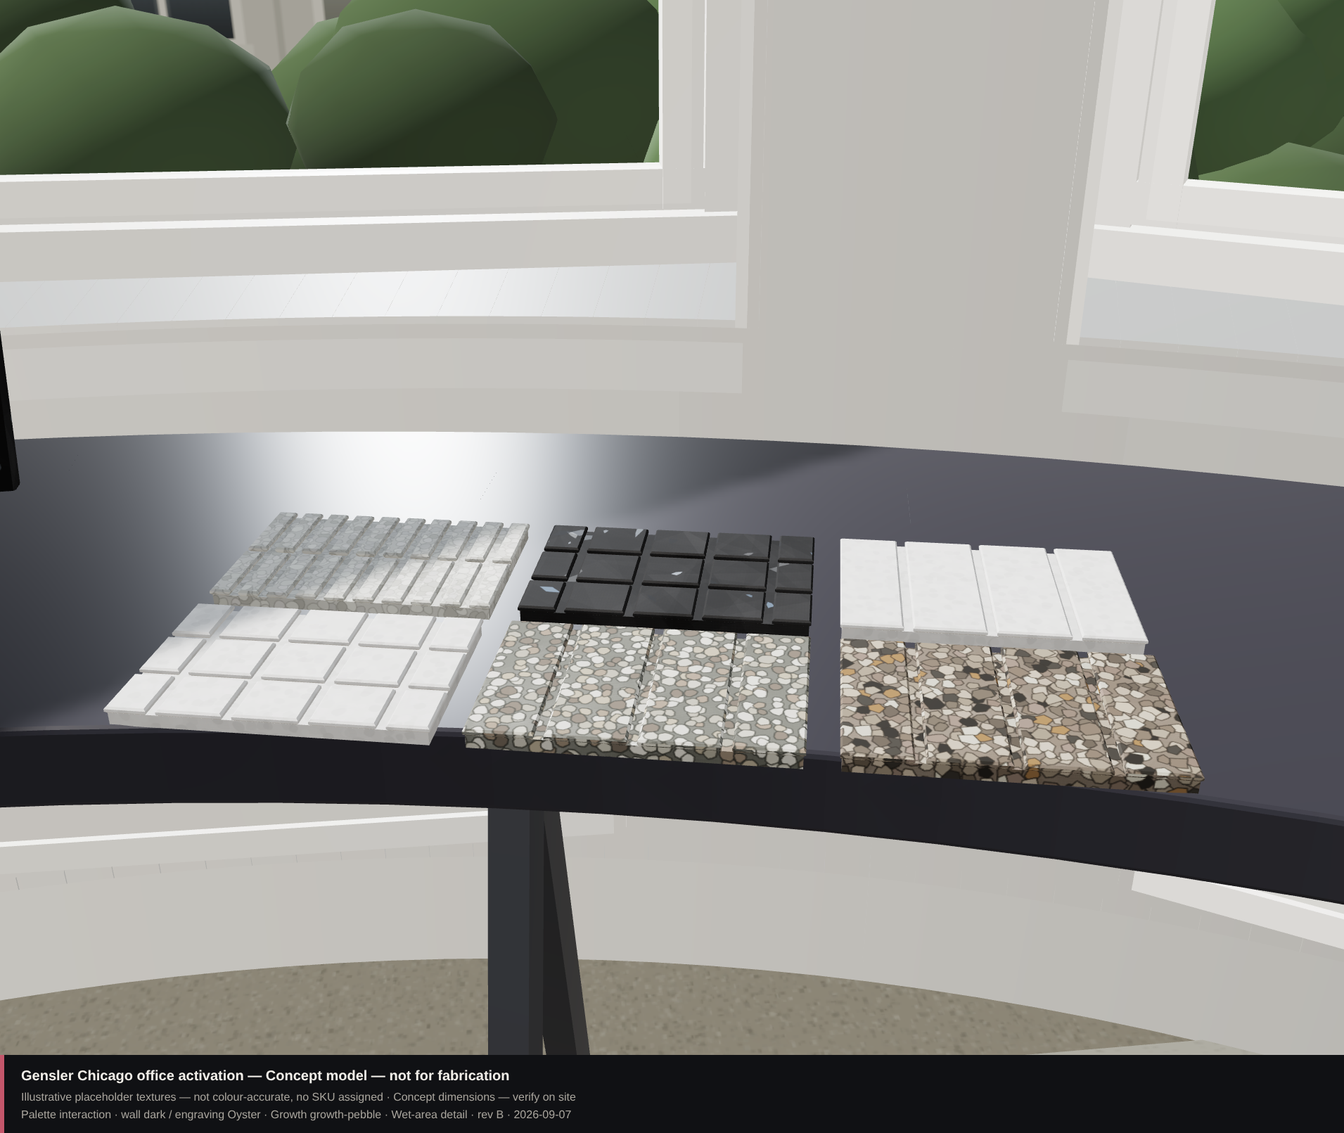
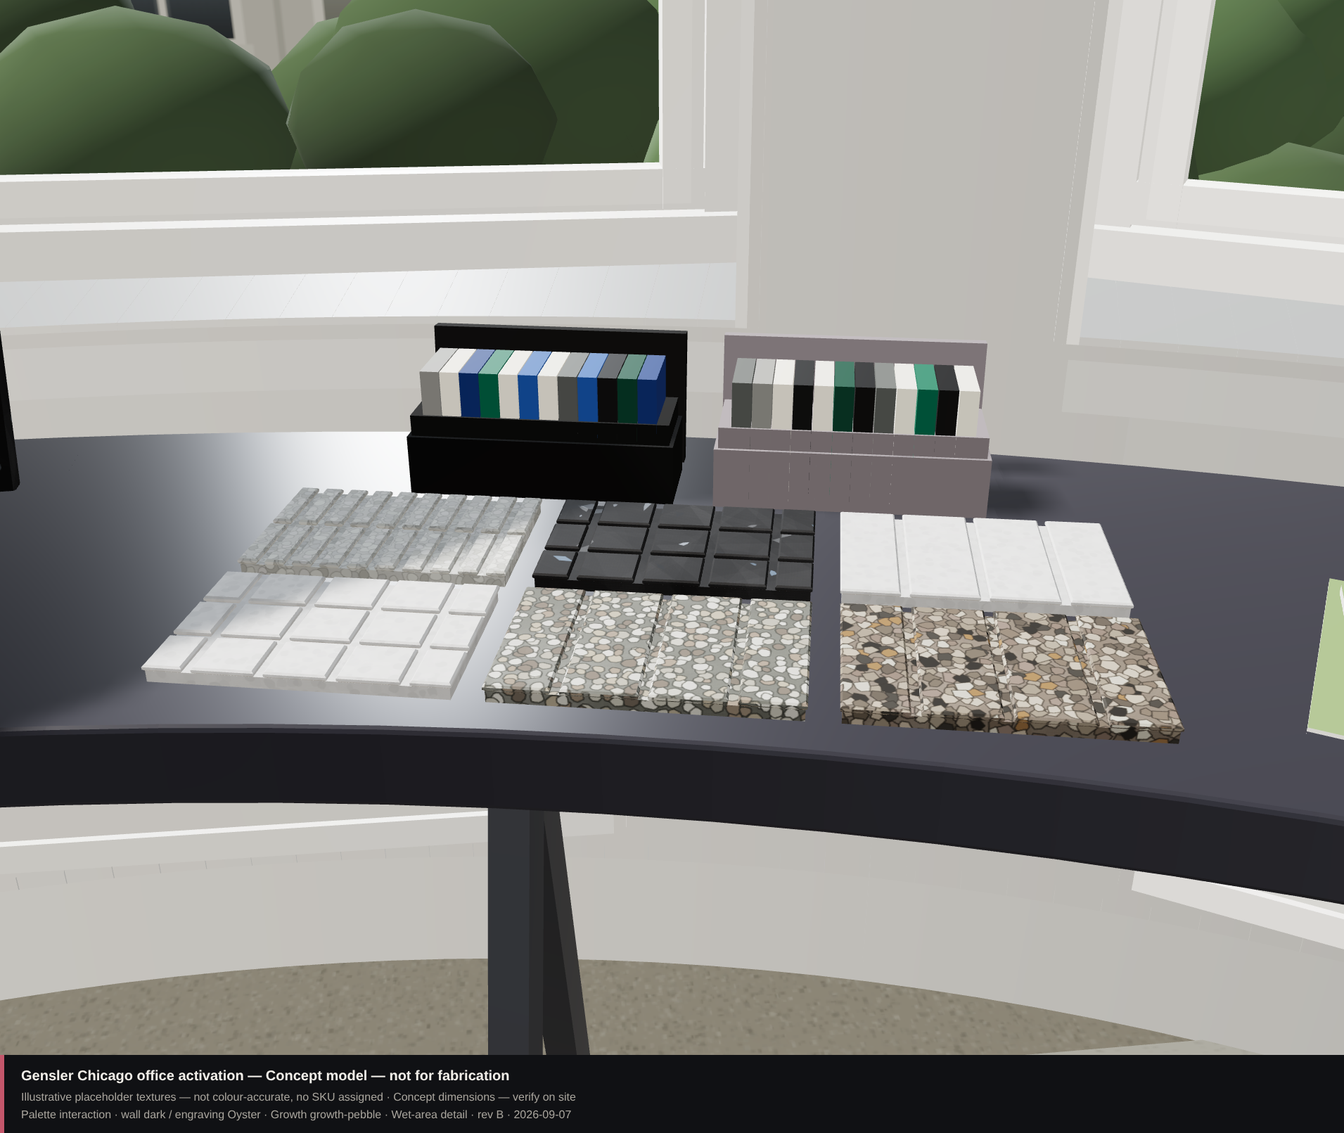
Stand the sample boxes behind the tiles, and give the catalogues the right-hand place
On the planning photograph the two general sample boxes stand BEHIND the six
engraved tiles at the back edge, and the catalogues take the place to the right
of the tiles. They were modelled as their own sub-assembly with its own slot on
the run, which pushed the catalogues 510 mm further along - onto the credenza,
where they were invisible and 96 mm inside existing furniture.

Moving them inside the palette unit fixes both at once:
  envelope                   3334 -> 2824 mm
  catalogues into credenza     96 -> clear

This is the first change in the whole sequence that gave envelope back rather
than spending it, and it cost nothing: it is what the photograph showed.

It exposed a second thing worth keeping. The palette unit now carries the tile
block and the boxes, and the first depth tried - 430 mm - overhung the glazing
side by 10 mm, although 430 sits comfortably inside the 450 mm counter depth.
The ceiling is not the nominal depth. At 640 wide this unit's back corners sit
25 mm further out than its centre, so the counter's 2500 outer edge binds first:

    sqrt((2060 + D)^2 + 320^2) <= 2500   ->   D <= 419

Set to 410: 15 front margin + 260 tile block + 25 gap + 105 box and standing
lid. On a curved counter, depth and width are not independent.

While measuring it, the tile block turned out to be set out from pitchZ instead
of blockD, which had been putting the front row 30 mm PROUD of the unit's front
[…]

Changed region(s): [[0.0617, 0.2793, 0.8953, 0.7138], [0.9571, 0.4966, 1.0, 0.6518]]

diff --git a/spaces/gensler-chicago-activation/dist/index.html b/spaces/gensler-chicago-activation/dist/index.html
@@ -326,11 +326,18 @@ window.PG_CONFIG = {
       // Widened and deepened again to carry SIX engraved tiles in two rows of
       // three, plus the two general sample boxes. This spends envelope: watch
       // the fit check.
-      /* 580 for the six tiles + 60 margin. The two sample boxes are their own
-         sub-assembly: at 1060 wide this unit swung 68 mm off a 2.06 m radius
-         and overhung the glazing side by 16 mm. Rigid things on this counter
-         have to stay short. */
-      width: 640, depth: 320,
+      /* 580 for the six tiles + 60 margin. Width has to stay short: at 1060 this
+         unit swung 68 mm off a 2.06 m radius and overhung the glazing side by
+         16 mm. Rigid things on this counter have to stay short.
+         410 DEEP, because the two sample boxes now stand BEHIND the tiles in
+         this unit rather than taking a slot of their own on the run — which is
+         where the planning photograph puts them, and which moves the catalogues
+         510 mm back along the counter, clear of the credenza.
+         15 front margin + 260 tile block + 25 gap + 105 box and standing lid.
+         The ceiling is NOT the 450 counter depth. At 640 wide the back corners
+         swing 25 mm out, so the counter's 2500 outer edge binds first and the
+         real limit is 419. At 430 it overhung the glazing side by 10 mm. */
+      width: 640, depth: 410,
       /* Six engraved tiles, two rows of three. 120 x 180 as stated; UNITS AND
          THICKNESS UNCONFIRMED — read here as millimetres, the only reading that
          gives a tile a visitor can pick up. Only four engravings have been
@@ -349,13 +356,8 @@ window.PG_CONFIG = {
          the concept image does. Illustrative: not colour accurate, no SKU. */
       tileSurfaces: ['growth-mist', 'growth-slate', 'growth-clay',
                      'growth-pebble', 'growth-midnight', 'growth-mist'],
-      gridX: -140          // tile grid sits left; the two sample boxes take the right
+      gridX: 0             // the boxes are behind the tiles now, not beside them
     },
-
-    /* The two general sample boxes, on their own tray beside the tiles.
-       EXTERNAL DIMENSIONS UNCONFIRMED — the concept image does not establish
-       them; these are the proportions read off the earlier photographs. */
-    boxesUnit: { width: 470, depth: 240 },
 
     // The two Polygood sample boxes, from the supplied product photographs.
     // Dimensions are read off those photographs — they are proportions, not a
@@ -2024,8 +2026,11 @@ var thetaC = thetaA - ((mm(I.gapBetweenUnits) + halfA + halfC) / rFront) / D2R;
 var thetaG = thetaA + ((mm(I.gapBetweenUnits) + halfA + halfG) / rFront) / D2R;
 var thetaB = thetaG + ((mm(I.gapBetweenUnits) + halfG + halfB) / rFront) / D2R;
 
-var halfBox = mm(I.boxesUnit.width) / 2;
-var thetaBox = thetaB + ((mm(I.gapBetweenUnits) + halfB + halfBox) / rFront) / D2R;
+/* The two general sample boxes do NOT take a slot of their own on the run.
+   On the planning photograph they stand BEHIND the six engraved tiles, at the
+   back edge, with the catalogues taking the place to the right of the tiles.
+   Given them their own slot, they pushed the catalogues 510 mm further along
+   and onto the credenza. They are now built inside the palette unit. */
 
 var halfD = mm(I.introStand.unit.width) / 2;
 var thetaD = thetaC - ((mm(I.gapBetweenUnits) + halfC + halfD) / rFront) / D2R;
@@ -2037,14 +2042,13 @@ var thetaD = thetaC - ((mm(I.gapBetweenUnits) + halfC + halfD) / rFront) / D2R;
    edge from about 37.5 deg. Even set out here they still catch its corner —
    checkFootprint reports by how much. */
 var halfBr = (mm(I.brochure.size) + 2 * mm(I.brochure.step) * 0.62) / 2;
-var thetaBr = thetaBox + ((mm(I.gapBetweenUnits) + halfBox + halfBr) / rFront) / D2R;
+var thetaBr = thetaB + ((mm(I.gapBetweenUnits) + halfB + halfBr) / rFront) / D2R;
 
 var UNITS = {
   intro:       { theta: thetaD, w: mm(I.introStand.unit.width),  d: mm(I.introStand.unit.depth) },
   main:        { theta: thetaA, w: mm(I.wall.width),             d: mm(I.activeDepth) },
   growth:      { theta: thetaG, w: mm(I.growthStand.unit.width), d: mm(I.growthStand.unit.depth) },
   palette:     { theta: thetaB, w: mm(I.palette.width),          d: mm(I.palette.depth) },
-  boxes:       { theta: thetaBox, w: mm(I.boxesUnit.width),      d: mm(I.boxesUnit.depth) },
   translucent: { theta: thetaC, w: mm(I.translucentUnit.width),  d: mm(I.translucentUnit.depth) },
   /* the catalogues stand on the counter too, so they are measured with the
      rest of the run rather than exempted from the footprint check */
@@ -2063,8 +2067,9 @@ var gIntro  = unitGroup(UNITS.intro.theta);
 var gMain   = unitGroup(UNITS.main.theta);
 var gGrowth = unitGroup(UNITS.growth.theta);
 var gPal    = unitGroup(UNITS.palette.theta);
-var gBoxes  = unitGroup(UNITS.boxes.theta);
 var gTrans  = unitGroup(UNITS.translucent.theta);
+// the sample boxes live inside the palette unit, at its back edge
+var gBoxes  = new THREE.Group(); gPal.add(gBoxes);
 
 /* ── surfaces ─────────────────────────────────────────────────────────────
    Wall Tiles carry the four core colours; Growth is its own range. The two
@@ -2440,7 +2445,15 @@ var pitchX = tileW + mm(I.palette.gapX), pitchZ = tileH + mm(I.palette.gapZ);
 var blockW = I.palette.cols * tileW + (I.palette.cols - 1) * mm(I.palette.gapX);
 var blockD = I.palette.rows * tileH + (I.palette.rows - 1) * mm(I.palette.gapZ);
 var gridX = 0;
-var sampleZ = -mm(30) - pitchZ / 2;
+/* The block starts 15 mm back from the unit's front edge. It used to be set
+   out from pitchZ rather than blockD, which put the front row 30 mm PROUD of
+   the edge — the sample boxes now share this unit, so the depth has to add up,
+   and the margin is tight: this unit is 640 wide, so its back corners swing
+   25 mm further out than its centre and the counter's outer edge is the
+   binding constraint, not its nominal depth. */
+var sampleZ = -mm(15) - blockD / 2;
+var tileBlockFrontZ = sampleZ + blockD / 2;
+var tileBlockBackZ  = sampleZ - blockD / 2;
 var sampleW = tileW;
 var samples = [];
 (function () {
@@ -2525,16 +2538,22 @@ function sampleBox(spec, x, z, withLid) {
   lid.castShadow = true; g.add(lid);
   return g;
 }
-/* Two general sample boxes — one black, one grey — stacked front-to-back at
-   the right of the tile grid rather than behind it, so a visitor can reach a
-   box and a tile without leaning across either. */
-var BX = I.boxesUnit;
-[[-0.14, -0.05], [0.14, -0.05], [-0.14, -0.19], [0.14, -0.19]].forEach(function (p) {
+/* Two general sample boxes — one black, one grey — standing BEHIND the six
+   engraved tiles at the back of the palette unit, which is where the planning
+   photograph puts them. Set out from the back of the tile block, so moving or
+   resizing the tiles carries the boxes with them.
+   A box reads front-to-back as: body 68, then the lid standing 26 behind it,
+   leaning back about 10 more — call it 116 from the body's front face. */
+var boxFrontZ = tileBlockBackZ - mm(25);   // reach-over gap, tiles to boxes
+var boxZ = boxFrontZ - mm(SB.depth) / 2;
+var boxX = mm(115);
+var boxBackZ = boxZ - mm(SB.depth) / 2 - mm(26) - mm(SB.lidThickness)
+             - mm(SB.lidHeight) * Math.sin(0.10);
+[[-boxX, boxFrontZ - mm(20)], [boxX, boxFrontZ - mm(20)],
+ [-boxX, boxBackZ + mm(20)], [boxX, boxBackZ + mm(20)]].forEach(function (p) {
   var pad = new THREE.Mesh(new THREE.BoxGeometry(0.05, padT, 0.05), matPad);
   pad.position.set(p[0], padT / 2, p[1]); gBoxes.add(pad);
 });
-var boxZ = -mm(BX.depth) / 2;
-var boxX = mm(115);
 var boxes = [
   sampleBox(I.sampleBoxes[0], -boxX, boxZ, true),
   sampleBox(I.sampleBoxes[1],  boxX, boxZ, true)

diff --git a/spaces/gensler-chicago-activation/installation.js b/spaces/gensler-chicago-activation/installation.js
@@ -68,8 +68,11 @@ var thetaC = thetaA - ((mm(I.gapBetweenUnits) + halfA + halfC) / rFront) / D2R;
 var thetaG = thetaA + ((mm(I.gapBetweenUnits) + halfA + halfG) / rFront) / D2R;
 var thetaB = thetaG + ((mm(I.gapBetweenUnits) + halfG + halfB) / rFront) / D2R;
 
-var halfBox = mm(I.boxesUnit.width) / 2;
-var thetaBox = thetaB + ((mm(I.gapBetweenUnits) + halfB + halfBox) / rFront) / D2R;
+/* The two general sample boxes do NOT take a slot of their own on the run.
+   On the planning photograph they stand BEHIND the six engraved tiles, at the
+   back edge, with the catalogues taking the place to the right of the tiles.
+   Given them their own slot, they pushed the catalogues 510 mm further along
+   and onto the credenza. They are now built inside the palette unit. */
 
 var halfD = mm(I.introStand.unit.width) / 2;
 var thetaD = thetaC - ((mm(I.gapBetweenUnits) + halfC + halfD) / rFront) / D2R;
@@ -81,14 +84,13 @@ var thetaD = thetaC - ((mm(I.gapBetweenUnits) + halfC + halfD) / rFront) / D2R;
    edge from about 37.5 deg. Even set out here they still catch its corner —
    checkFootprint reports by how much. */
 var halfBr = (mm(I.brochure.size) + 2 * mm(I.brochure.step) * 0.62) / 2;
-var thetaBr = thetaBox + ((mm(I.gapBetweenUnits) + halfBox + halfBr) / rFront) / D2R;
+var thetaBr = thetaB + ((mm(I.gapBetweenUnits) + halfB + halfBr) / rFront) / D2R;
 
 var UNITS = {
   intro:       { theta: thetaD, w: mm(I.introStand.unit.width),  d: mm(I.introStand.unit.depth) },
   main:        { theta: thetaA, w: mm(I.wall.width),             d: mm(I.activeDepth) },
   growth:      { theta: thetaG, w: mm(I.growthStand.unit.width), d: mm(I.growthStand.unit.depth) },
   palette:     { theta: thetaB, w: mm(I.palette.width),          d: mm(I.palette.depth) },
-  boxes:       { theta: thetaBox, w: mm(I.boxesUnit.width),      d: mm(I.boxesUnit.depth) },
   translucent: { theta: thetaC, w: mm(I.translucentUnit.width),  d: mm(I.translucentUnit.depth) },
   /* the catalogues stand on the counter too, so they are measured with the
      rest of the run rather than exempted from the footprint check */
@@ -107,8 +109,9 @@ var gIntro  = unitGroup(UNITS.intro.theta);
 var gMain   = unitGroup(UNITS.main.theta);
 var gGrowth = unitGroup(UNITS.growth.theta);
 var gPal    = unitGroup(UNITS.palette.theta);
-var gBoxes  = unitGroup(UNITS.boxes.theta);
 var gTrans  = unitGroup(UNITS.translucent.theta);
+// the sample boxes live inside the palette unit, at its back edge
+var gBoxes  = new THREE.Group(); gPal.add(gBoxes);
 
 /* ── surfaces ─────────────────────────────────────────────────────────────
    Wall Tiles carry the four core colours; Growth is its own range. The two
@@ -484,7 +487,15 @@ var pitchX = tileW + mm(I.palette.gapX), pitchZ = tileH + mm(I.palette.gapZ);
 var blockW = I.palette.cols * tileW + (I.palette.cols - 1) * mm(I.palette.gapX);
 var blockD = I.palette.rows * tileH + (I.palette.rows - 1) * mm(I.palette.gapZ);
 var gridX = 0;
-var sampleZ = -mm(30) - pitchZ / 2;
+/* The block starts 15 mm back from the unit's front edge. It used to be set
+   out from pitchZ rather than blockD, which put the front row 30 mm PROUD of
+   the edge — the sample boxes now share this unit, so the depth has to add up,
+   and the margin is tight: this unit is 640 wide, so its back corners swing
+   25 mm further out than its centre and the counter's outer edge is the
+   binding constraint, not its nominal depth. */
+var sampleZ = -mm(15) - blockD / 2;
+var tileBlockFrontZ = sampleZ + blockD / 2;
+var tileBlockBackZ  = sampleZ - blockD / 2;
 var sampleW = tileW;
 var samples = [];
 (function () {
@@ -569,16 +580,22 @@ function sampleBox(spec, x, z, withLid) {
   lid.castShadow = true; g.add(lid);
   return g;
 }
-/* Two general sample boxes — one black, one grey — stacked front-to-back at
-   the right of the tile grid rather than behind it, so a visitor can reach a
-   box and a tile without leaning across either. */
-var BX = I.boxesUnit;
-[[-0.14, -0.05], [0.14, -0.05], [-0.14, -0.19], [0.14, -0.19]].forEach(function (p) {
+/* Two general sample boxes — one black, one grey — standing BEHIND the six
+   engraved tiles at the back of the palette unit, which is where the planning
+   photograph puts them. Set out from the back of the tile block, so moving or
+   resizing the tiles carries the boxes with them.
+   A box reads front-to-back as: body 68, then the lid standing 26 behind it,
+   leaning back about 10 more — call it 116 from the body's front face. */
+var boxFrontZ = tileBlockBackZ - mm(25);   // reach-over gap, tiles to boxes
+var boxZ = boxFrontZ - mm(SB.depth) / 2;
+var boxX = mm(115);
+var boxBackZ = boxZ - mm(SB.depth) / 2 - mm(26) - mm(SB.lidThickness)
+             - mm(SB.lidHeight) * Math.sin(0.10);
+[[-boxX, boxFrontZ - mm(20)], [boxX, boxFrontZ - mm(20)],
+ [-boxX, boxBackZ + mm(20)], [boxX, boxBackZ + mm(20)]].forEach(function (p) {
   var pad = new THREE.Mesh(new THREE.BoxGeometry(0.05, padT, 0.05), matPad);
   pad.position.set(p[0], padT / 2, p[1]); gBoxes.add(pad);
 });
-var boxZ = -mm(BX.depth) / 2;
-var boxX = mm(115);
 var boxes = [
   sampleBox(I.sampleBoxes[0], -boxX, boxZ, true),
   sampleBox(I.sampleBoxes[1],  boxX, boxZ, true)

diff --git a/spaces/gensler-chicago-activation/config.js b/spaces/gensler-chicago-activation/config.js
@@ -116,11 +116,18 @@ window.PG_CONFIG = {
       // Widened and deepened again to carry SIX engraved tiles in two rows of
       // three, plus the two general sample boxes. This spends envelope: watch
       // the fit check.
-      /* 580 for the six tiles + 60 margin. The two sample boxes are their own
-         sub-assembly: at 1060 wide this unit swung 68 mm off a 2.06 m radius
-         and overhung the glazing side by 16 mm. Rigid things on this counter
-         have to stay short. */
-      width: 640, depth: 320,
+      /* 580 for the six tiles + 60 margin. Width has to stay short: at 1060 this
+         unit swung 68 mm off a 2.06 m radius and overhung the glazing side by
+         16 mm. Rigid things on this counter have to stay short.
+         410 DEEP, because the two sample boxes now stand BEHIND the tiles in
+         this unit rather than taking a slot of their own on the run — which is
+         where the planning photograph puts them, and which moves the catalogues
+         510 mm back along the counter, clear of the credenza.
+         15 front margin + 260 tile block + 25 gap + 105 box and standing lid.
+         The ceiling is NOT the 450 counter depth. At 640 wide the back corners
+         swing 25 mm out, so the counter's 2500 outer edge binds first and the
+         real limit is 419. At 430 it overhung the glazing side by 10 mm. */
+      width: 640, depth: 410,
       /* Six engraved tiles, two rows of three. 120 x 180 as stated; UNITS AND
          THICKNESS UNCONFIRMED — read here as millimetres, the only reading that
          gives a tile a visitor can pick up. Only four engravings have been
@@ -139,13 +146,8 @@ window.PG_CONFIG = {
          the concept image does. Illustrative: not colour accurate, no SKU. */
       tileSurfaces: ['growth-mist', 'growth-slate', 'growth-clay',
                      'growth-pebble', 'growth-midnight', 'growth-mist'],
-      gridX: -140          // tile grid sits left; the two sample boxes take the right
+      gridX: 0             // the boxes are behind the tiles now, not beside them
     },
-
-    /* The two general sample boxes, on their own tray beside the tiles.
-       EXTERNAL DIMENSIONS UNCONFIRMED — the concept image does not establish
-       them; these are the proportions read off the earlier photographs. */
-    boxesUnit: { width: 470, depth: 240 },
 
     // The two Polygood sample boxes, from the supplied product photographs.
     // Dimensions are read off those photographs — they are proportions, not a

diff --git a/spaces/gensler-chicago-activation/README.md b/spaces/gensler-chicago-activation/README.md
@@ -96,11 +96,12 @@ unit, or the samples need decoupling from the horizontal panel.
 
 ### Expo layout — what is on the stand, and the banner arithmetic
 
-The counter now carries five sub-assemblies, left to right: the **A4
-introduction**, the **LOOK CLOSER installation**, the **Growth A4 with the
-collaboration box** in front of it, the **six engraved tiles with the two
-general sample boxes**, and the **Translucent Collection box**. Three
-catalogues sit on the counter at the far end, beside the roll-up.
+The counter carries five sub-assemblies. Left to right as a visitor meets them:
+the **A4 introduction**, the **Translucent Collection box**, the **LOOK CLOSER
+installation**, the **Growth A4 with the collaboration box** in front of it, and
+the **six engraved tiles with the two general sample boxes standing behind
+them**. Three catalogues close the run to the right of the tiles, and the
+roll-up stands on the floor past the counter's end.
 
 Counts are structural, not hand-placed: the tile grid is `cols x rows`, the
 brochure stack is `brochure.count`, and the two general boxes come from the
@@ -151,8 +152,15 @@ before cutting: if the panel is meant to be 19, the base DXF is wrong too.
 
 Everything rigid is kept short on purpose. A 1060 mm tile-and-box unit swung
 **68 mm** off the 2.06 m front-edge radius and overhung the glazing side by
-16 mm, so the two general sample boxes were split onto their own tray. Six
-sub-assemblies now, each tangent at its own centre.
+16 mm. The boxes were first split onto a tray of their own; they now stand
+**behind** the tiles in the same unit, as the planning photograph shows, which
+keeps the unit 640 wide and returns their slot to the run. Five
+sub-assemblies, each tangent at its own centre.
+
+The same arc bites in depth. A unit's back corners sit further out than its
+centre, so **depth and width are not independent**: at 640 wide the palette
+unit's limit is 419 mm against the counter's 2500 mm outer edge, not the
+450 mm nominal depth.
 
 Tile set-out follows the brief: each tile turned with its **180 mm side along
 the counter**, giving **580 x 260** rather than 400 x 380. That is 120 mm less
@@ -455,7 +463,7 @@ Four rigid sub-assemblies now sit along the counter — the orientation stand
 (left), the LOOK CLOSER wall fragment, the Growth palette with its boxes, and
 the Translucent Collection box (right).
 
-The envelope is **3334 mm against the 1400 mm allocated — over by 1934 mm**, and
+The envelope is **2824 mm against the 1400 mm allocated — over by 1424 mm**, and
 the fit check reports it as a failure rather than absorbing it. Depth still
 passes: nothing exceeds the 450 mm counter depth.
 
@@ -469,22 +477,27 @@ It got there a step at a time, each of them requested:
 | \+ orientation stand, left (500 mm tray) | **2368 mm** |
 | \+ expo rebuild: Translucent bar, Growth A4, 300 x 300 collab box | 2958 mm |
 | \+ the two sample boxes split onto their own sub-assembly | 3058 mm |
-| \+ three catalogues, now measured with the run instead of exempt | **3334 mm** |
+| \+ three catalogues, now measured with the run instead of exempt | 3334 mm |
+| − sample boxes moved behind the tiles, off the run | **2824 mm** |
 
 Three ways out, in the order we would recommend:
 
-1. **Raise the allocation.** The counter has most of the length — the run is
-   about 4.4 m and the composition now spans about 83° of arc. The 1400 mm was a
-   concept envelope, not a measured limit. This needs the real counter measured
-   and the host's agreement. Note that raising it alone no longer clears
-   everything: the far end is under the credenza from about 37.5°, so the
-   catalogues need the credenza question answered as well (below).
-2. **Drop the two standard sample boxes** and let the Translucent box be the
-   only box. That returns roughly 480 mm.
-3. **Crop the exhibition fragment** from 700 mm, which the brief allows once
+1. **Raise the allocation.** The counter has the length — the run is about 4.4 m
+   and the composition spans about 70° of arc, now ending clear of the credenza.
+   The 1400 mm was a concept envelope, not a measured limit. This needs the real
+   counter measured and the host's agreement, and nothing more.
+2. **Stack more of it in depth rather than along the run**, as the sample boxes
+   now are. This is the move that actually returned envelope — 510 mm of it —
+   and it cost nothing, because it is what the planning photograph showed all
+   along. Whatever else can go behind something instead of beside it is worth
+   the same again. The limit is the arc: past roughly 419 mm of depth a
+   640 mm-wide unit runs off the glazing side.
+3. **Drop the two standard sample boxes** and let the Translucent box be the
+   only box — now worth much less, since they no longer take a slot.
+4. **Crop the exhibition fragment** from 700 mm, which the brief allows once
    the real engraving pattern has been reviewed — which it now has.
 
-Even taken together, 2 and 3 do not recover 1934 mm. Realistically the
+Even taken together, 3 and 4 do not recover 1424 mm. Realistically the
 allocation has to move; the model shows the arrangement you asked for and
 states the cost rather than quietly shrinking anything to make it fit.
 
@@ -547,6 +560,41 @@ The depth check used to read `Math.max(activeDepth, palette.depth)` — two unit
 picked by name. It silently stopped reporting the deepest unit the moment the
 Growth stand passed both. It now reads the deepest unit off the set-out and names
 it.
+
+#### The sample boxes belong behind the tiles, not beside them
+
+The planning photograph puts the two general sample boxes **behind** the six
+engraved tiles, at the back edge, with the catalogues taking the place to the
+right of the tiles. They had been modelled as their own sub-assembly with its
+own slot on the run, which pushed the catalogues 510 mm further along — onto the
+credenza, where they were invisible and 96 mm inside existing furniture.
+
+Moving them inside the palette unit fixes both at once:
+
+| | Before | After |
+| --- | ---: | ---: |
+| Envelope | 3334 mm | **2824 mm** |
+| Catalogues into credenza | 96 mm | **clear** |
+
+This is the first change in this whole sequence that gave envelope **back**.
+
+It exposed a second thing. The palette unit now has to hold the tile block and
+the boxes, and the first depth tried — 430 mm — **overhung the glazing side by
+10 mm**, even though 430 is comfortably inside the 450 mm counter depth. The
+ceiling is not the nominal depth. At 640 mm wide this unit's back corners sit
+25 mm further out than its centre, so the counter's **2500 mm outer edge** binds
+first:
+
+    sqrt((2060 + D)² + 320²) ≤ 2500   →   D ≤ 419
+
+Set to 410: 15 front margin + 260 tile block + 25 gap + 105 box and standing
+lid. Worth remembering for any future unit — on a curved counter, depth and
+width are not independent.
+
+While measuring it, the tile block turned out to be set out from `pitchZ`
+instead of `blockD`, which had been putting the front row **30 mm proud of the
+unit's front edge**. Harmless while nothing shared the unit; not harmless once
+the depth has to add up.
 
 #### Where the counter actually ends: the credenza, not an angle
 
